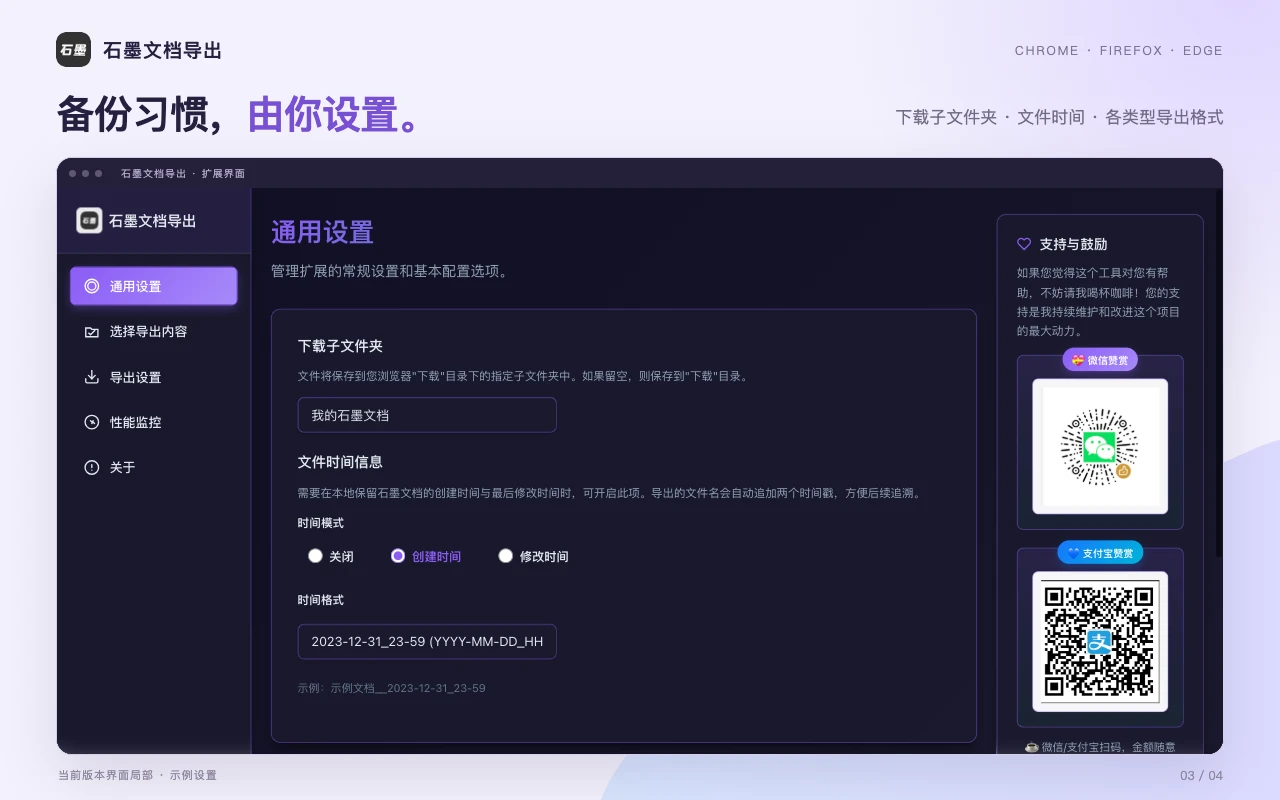
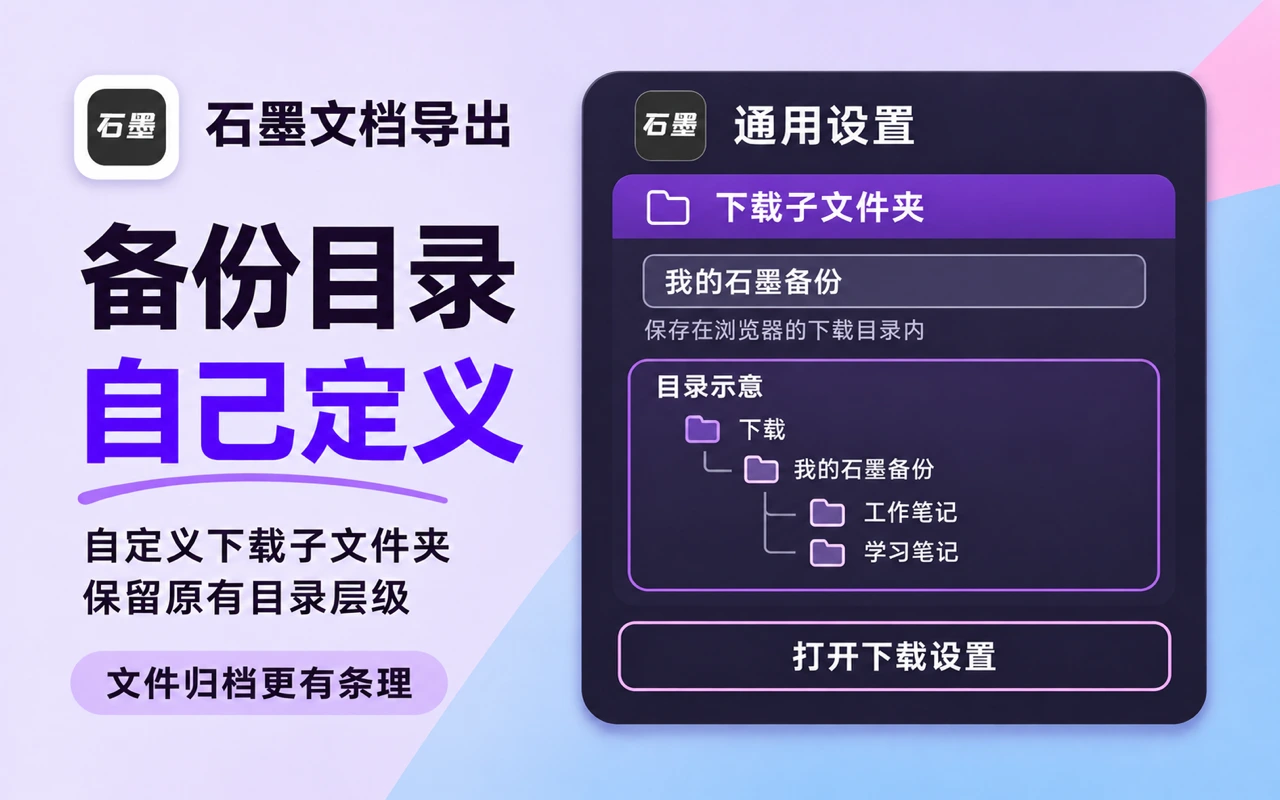
docs(promo): 重做宣传图并保留原有品牌标识
参考幕布 prompt 重新生成四张功能图及两个 banner，移除二维码和赞赏信息，恢复原有石墨 logo，并同步 PNG、WebP、JPEG 与生成记录。

将旧截图脚本输出改为预览目录，防止覆盖正式素材；同步备份目录的轮播文案。影响范围：官网与博客宣传素材、宣传图文档和预览脚本。图片尺寸、资源引用、JSON-LD、sitemap、脚本语法及差异检查通过。

diff --git a/docs/blog/blog-components.js b/docs/blog/blog-components.js
@@ -63,8 +63,8 @@
                         <p class="carousel-caption">按需勾选，保留目录层级</p>
                     </div>
                     <div class="carousel-slide">
-                        <img src="../images/feat3.webp" alt="下载目录与文件时间设置" loading="lazy">
-                        <p class="carousel-caption">自定义下载目录与文件时间</p>
+                        <img src="../images/feat3.webp" alt="自定义下载子文件夹并保留目录层级" loading="lazy">
+                        <p class="carousel-caption">自定义备份目录，保留文件层级</p>
                     </div>
                     <div class="carousel-slide">
                         <img src="../images/feat4.webp" alt="导出状态与下载耗时" loading="lazy">

diff --git a/scripts/promo/README.md b/scripts/promo/README.md
@@ -1,19 +1,26 @@
 # 官网展示图
 
-使用构建后的真实扩展页面、独立示例数据和 HTML/CSS 排版生成图片，不调用石墨接口或读取真实账号。
+正式图片使用内置 `image_gen` 生成，参考幕布项目的功能图与 banner prompt，统一采用浅紫背景、大标题及简化深色功能面板。它们是功能宣传示意图，不是原样界面截图；不包含二维码、赞赏区或账号信息。
+
+品牌标识必须使用 `src/icons/icon.png` 原有黑底白字“石墨” logo，左上角及功能面板标题处均须保留，不能替换成通用文档图标。
+
+完整 prompt、参考图及生成源文件记录在 `docs/images/promo-prompts.json`。再次生成时先生成 feat1 确定风格，再将其作为其余功能图及大 banner 的风格参考；小 banner 参考大 banner 单独排版，不能直接裁切宽图。功能内容须核对当前源码，不能照搬幕布格式或功能。
+
+交付文件：
+
+- `docs/images/feat1`～`feat4`：1280×800 PNG 与 WebP，分别展示格式选择、选择导出、备份目录、导出进度。
+- `docs/images/banner-L.jpg`：1400×560；`banner-S.jpg`：440×280，JPEG 质量 96。
+- `docs/images/banner-L.png`、`banner-S.png`：保留生成器原生分辨率的无损 banner，供后续适配。
+
+生成后用 `sips` 缩放至交付尺寸，功能图用 `cwebp -q 92` 输出 WebP。检查中文、格式名称、树形层级、缩小后的可读性及二维码禁用要求。图片名称保持兼容已有页面引用。
+
+## 本地界面预览
+
+原 HTML/CSS 截图工具保留用于界面核对，输出到 `build/promo-preview/`，不覆盖正式图片：
 
 1. `npm run build`
 2. 一个终端执行 `node scripts/promo/server.js`（仅监听本机 54093）。
 3. 另一个终端执行 `bash scripts/promo/capture.sh`。
-4. 检查图片后关闭预览服务。
+4. 检查后关闭预览服务。
 
-依赖 `agent-browser`、`cwebp` 和 macOS 自带的 `sips`。沿用系统中文字体，换机器时应复核文字布局。
-
-输出覆盖 `docs/images/banner-L.jpg`（1400×560）、`banner-S.jpg`（440×280），以及 `feat1`～`feat4` 的 PNG/WebP（1280×800）。
-
-- feat1：popup 格式选择菜单。
-- feat2：选择导出目录和勾选状态。
-- feat3：通用设置相关控件局部，预览时省略下载提示和反馈区，以保证目录与时间设置可读。
-- feat4：性能监控中的示例成功、失败状态与耗时；数据不代表实测速度。
-
-`browser.js` 仅在这个本地预览服务中替代浏览器兼容层，不参与扩展打包。界面入场动画在截图中加速完成，生产页面不受影响。
+预览使用构建后的真实扩展页面及独立示例数据，不调用石墨接口或读取真实账号。依赖 `agent-browser`、`cwebp` 和 macOS 自带的 `sips`。`browser.js` 仅在本地预览服务替代浏览器兼容层，不参与扩展打包。
